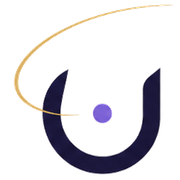
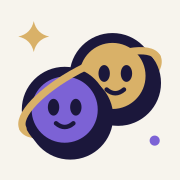
Put the new identity in the header, and a door to the shop
The approved 2026 identity: the new logo mark, the favicon set derived
from it, and the page on plain white — the warmth is carried by the
sticker style, thick navy outlines and hard unblurred shadows, which a
tinted room was muddying. The guard that protected the old warm
background is rewritten rather than deleted: what it really defends
against is the retired dark canvas creeping back.

The old app icon is removed. Next serves every icon file it finds, so
leaving it would have kept the previous identity in the tab.

The header now carries how many Matches you have, and it is the way into
the shop. Everything else in the payment line already works; there was
simply nowhere to press. It shows nothing until the number arrives — a
chip reading zero while the balance loads tells a player they cannot
play, which is the worst thing to be wrong about in a header.

Counting Matches needed the Arabic right. The plural helper knew that
one and two take no numeral — "مباراة واحدة", "مباراتان" — but wrote
"واحد" masculine always, and مباراة and بطاقة are feminine. The bug had
never bitten because `arabicCount` had no caller and no test, and this
is its first. Nouns now carry gender, بطاقة is fixed alongside, and the
module has its first test, including the cases the shop prices read in:
"5 مباريات" and "15 مباراة".

Claude-Session: https://claude.ai/code/session_01LBFJ1ze9pkHxiRgZVuvpFW

diff --git a/frontend/src/components/layout/token-chip.tsx b/frontend/src/components/layout/token-chip.tsx
@@ -1,0 +1,69 @@
+"use client";
+
+import Link from "next/link";
+import { useAuth } from "@/components/auth/auth-provider";
+import { useTokenBalance } from "@/features/entitlements/api/token-balance";
+import { ARABIC_NOUNS, arabicCount, arabicNoun } from "@/lib/arabic-plural";
+
+/**
+ * How many Matches you have, and the way to get more.
+ *
+ * It says "مباريات" rather than "توكنز" because that is what one is: the whole
+ * product counts in Matches, and a second word for the same thing would make a
+ * player wonder whether they are two things.
+ *
+ * Nothing is shown until the number is known. A chip that says zero while the
+ * balance is still loading tells a player they cannot play, which is both wrong
+ * and the worst possible thing to be wrong about in the header.
+ */
+export function TokenChip() {
+  const { isAuthenticated } = useAuth();
+  const { data: balance } = useTokenBalance(isAuthenticated);
+
+  if (!isAuthenticated || balance === undefined) return null;
+
+  // One and two carry no numeral in Arabic — "مباراة واحدة", "مباراتان" — so
+  // the design's emphasised digit only exists from three up. Printing "1" next
+  // to a noun that already means one is the tell of a translated interface.
+  const countsWithNumeral = balance >= 3;
+
+  return (
+    <Link
+      href="/shop"
+      aria-label={`عندك ${arabicCount(balance, ARABIC_NOUNS.match)} — افتح المتجر`}
+      className="inline-flex min-h-[2.875rem] items-center gap-2.5 rounded-full border-[3px] border-[hsl(var(--brand-navy))] bg-white px-4 text-[15px] font-bold text-[hsl(var(--brand-navy))] transition-transform duration-150 hover:-translate-y-0.5"
+    >
+      <TokenCoins />
+      <span>
+        عندك{" "}
+        {countsWithNumeral ? (
+          <>
+            <span className="text-[18px] font-extrabold tabular-nums">
+              {balance}
+            </span>{" "}
+            {arabicNoun(balance, ARABIC_NOUNS.match)}
+          </>
+        ) : (
+          arabicCount(balance, ARABIC_NOUNS.match)
+        )}
+      </span>
+    </Link>
+  );
+}
+
+/** Two stacked gold coins, as the identity draws a Match. */
+function TokenCoins() {
+  return (
+    <span aria-hidden="true" className="relative block size-[1.875rem] shrink-0">
+      <span className="absolute right-2 top-[3px] size-6 rounded-full border-2 border-[hsl(var(--brand-navy))] bg-[hsl(var(--brand-gold))]" />
+      <span className="absolute right-0 top-[1px] inline-flex size-6 items-center justify-center rounded-full border-2 border-[hsl(var(--brand-navy))] bg-[hsl(var(--brand-gold))]">
+        <svg viewBox="-10 -10 20 20" className="size-3">
+          <path
+            d="M0 -10 Q1.8 -1.8 10 0 Q1.8 1.8 0 10 Q-1.8 1.8 -10 0 Q-1.8 -1.8 0 -10Z"
+            fill="hsl(var(--brand-navy))"
+          />
+        </svg>
+      </span>
+    </span>
+  );
+}

diff --git a/frontend/src/lib/arabic-plural.ts b/frontend/src/lib/arabic-plural.ts
@@ -26,14 +26,61 @@ export interface ArabicNounForms {
   few: string;
   /** Eleven and above, singular accusative: "عالمًا". */
   many: string;
+  /**
+   * The noun's gender, which "واحد" has to agree with.
+   *
+   * Arabic has no neuter to fall back on, so this cannot be defaulted: a
+   * feminine noun given the masculine "واحد" reads as broken Arabic, and that
+   * is precisely the tell of a translated interface this module exists to
+   * avoid.
+   */
+  gender: "masculine" | "feminine";
 }
 
 export const ARABIC_NOUNS = {
-  world: { one: "عالم", two: "عالمان", few: "عوالم", many: "عالمًا" },
-  scope: { one: "نطاق", two: "نطاقان", few: "نطاقات", many: "نطاقًا" },
-  challenge: { one: "تحدٍّ", two: "تحدّيان", few: "تحدّيات", many: "تحدّيًا" },
-  player: { one: "لاعب", two: "لاعبان", few: "لاعبين", many: "لاعبًا" },
-  card: { one: "بطاقة", two: "بطاقتان", few: "بطاقات", many: "بطاقة" },
+  world: {
+    one: "عالم",
+    two: "عالمان",
+    few: "عوالم",
+    many: "عالمًا",
+    gender: "masculine",
+  },
+  scope: {
+    one: "نطاق",
+    two: "نطاقان",
+    few: "نطاقات",
+    many: "نطاقًا",
+    gender: "masculine",
+  },
+  challenge: {
+    one: "تحدٍّ",
+    two: "تحدّيان",
+    few: "تحدّيات",
+    many: "تحدّيًا",
+    gender: "masculine",
+  },
+  player: {
+    one: "لاعب",
+    two: "لاعبان",
+    few: "لاعبين",
+    many: "لاعبًا",
+    gender: "masculine",
+  },
+  card: {
+    one: "بطاقة",
+    two: "بطاقتان",
+    few: "بطاقات",
+    many: "بطاقة",
+    gender: "feminine",
+  },
+  /** A playable Match — what a token buys, and what the shop counts in. */
+  match: {
+    one: "مباراة",
+    two: "مباراتان",
+    few: "مباريات",
+    many: "مباراة",
+    gender: "feminine",
+  },
 } as const satisfies Record<string, ArabicNounForms>;
 
 /** The noun alone, in the form the count requires. */
@@ -51,7 +98,8 @@ export function arabicNoun(count: number, forms: ArabicNounForms): string {
  * and printing the digit as well is the tell of a translated interface.
  */
 export function arabicCount(count: number, forms: ArabicNounForms): string {
-  if (count === 1) return `${forms.one} واحد`;
+  if (count === 1)
+    return `${forms.one} ${forms.gender === "feminine" ? "واحدة" : "واحد"}`;
   if (count === 2) return forms.two;
   return `${count} ${arabicNoun(count, forms)}`;
 }

diff --git a/frontend/src/test/design-tokens.test.ts b/frontend/src/test/design-tokens.test.ts
@@ -101,7 +101,9 @@ describe("the canonical Akwaan brand asset", () => {
       "src/features/live-game-session/components/player-join-page.tsx",
     ]) {
       const source = read(path);
-      expect(source).toContain('/brand/akwaan-logo.png');
+      // The 2026 identity's header mark. The guard's real job is that the
+      // Lammah logo never comes back; the path it allows moves with the brand.
+      expect(source).toMatch(/\/brand\/(logo-header\.svg|akwaan-logo\.png)/);
       expect(source).not.toContain('/brand/lammah-logo.png');
     }
   });
@@ -118,8 +120,8 @@ describe("the retired identity stays retired", () => {
 
   it("exposes the approved Akwaan palette without changing team semantics", () => {
     const css = read("src/app/globals.css");
-    expect(css).toContain("--brand-navy: 239 40% 17%");
-    expect(css).toContain("--brand-purple: 247 100% 71%");
+    expect(css).toContain("--brand-navy: 247 44% 16%");
+    expect(css).toContain("--brand-purple: 254 58% 61%");
     expect(css).toContain("--brand-cyan: 188 49% 54%");
     expect(css).toContain("--brand-gold: 40 57% 63%");
   });
@@ -134,17 +136,18 @@ describe("the retired identity stays retired", () => {
     }
   });
 
-  it("keeps the app background warm rather than pure white", () => {
+  it("keeps the app background plain white", () => {
+    // The warm off-white this used to guard was the pre-2026 room. The approved
+    // identity puts the page on plain white and lets the sticker style — thick
+    // navy outlines, hard unblurred shadows — do the separating. The guard is
+    // kept rather than dropped because the thing it really defends against is
+    // the retired dark canvas creeping back, which a loose background invites.
     const css = read("src/app/globals.css");
     const background = css.match(/--background:\s*(\d+)\s+(\d+)%\s+(\d+)%/);
     expect(background).not.toBeNull();
-    const [, hue, saturation, lightness] = background!.map(Number);
-    // A warm hue with real saturation, just below white.
-    expect(hue).toBeGreaterThanOrEqual(20);
-    expect(hue).toBeLessThanOrEqual(60);
-    expect(saturation).toBeGreaterThan(10);
-    expect(lightness).toBeGreaterThanOrEqual(92);
-    expect(lightness).toBeLessThan(100);
+    const [, , saturation, lightness] = background!.map(Number);
+    expect(saturation).toBe(0);
+    expect(lightness).toBe(100);
   });
 
   it("tints team surfaces from the team's own base rather than a fourth hue", () => {

diff --git a/frontend/src/lib/arabic-plural.test.ts b/frontend/src/lib/arabic-plural.test.ts
@@ -1,0 +1,52 @@
+import { describe, expect, it } from "vitest";
+import { ARABIC_NOUNS, arabicCount, arabicNoun } from "./arabic-plural";
+
+/**
+ * Arabic counting, which is not pluralisation with an extra case.
+ *
+ * The module had no test and `arabicCount` had no caller, so its one
+ * hard-coded "واحد" had never met a feminine noun. The shop counts in
+ * مباراة — feminine — so it does now.
+ */
+describe("the noun alone", () => {
+  it.each([
+    [1, "عالم"],
+    [2, "عالمان"],
+    [3, "عوالم"],
+    [10, "عوالم"],
+    [11, "عالمًا"],
+    [100, "عالمًا"],
+  ])("gives %i the right form", (count, expected) => {
+    expect(arabicNoun(count, ARABIC_NOUNS.world)).toBe(expected);
+  });
+});
+
+describe("the whole phrase", () => {
+  it("agrees with a masculine noun", () => {
+    expect(arabicCount(1, ARABIC_NOUNS.world)).toBe("عالم واحد");
+  });
+
+  it("agrees with a feminine noun", () => {
+    // "مباراة واحد" is the tell of an interface translated rather than written.
+    expect(arabicCount(1, ARABIC_NOUNS.match)).toBe("مباراة واحدة");
+    expect(arabicCount(1, ARABIC_NOUNS.card)).toBe("بطاقة واحدة");
+  });
+
+  it("leaves the numeral off one and two, which already say how many", () => {
+    expect(arabicCount(2, ARABIC_NOUNS.match)).toBe("مباراتان");
+    expect(arabicCount(1, ARABIC_NOUNS.match)).not.toMatch(/\d/);
+  });
+
+  it("counts the way the shop prices do", () => {
+    // The packs read "5 مباريات" and "15 مباراة" — three to ten take the
+    // plural, eleven and above take the singular.
+    expect(arabicCount(5, ARABIC_NOUNS.match)).toBe("5 مباريات");
+    expect(arabicCount(15, ARABIC_NOUNS.match)).toBe("15 مباراة");
+  });
+
+  it("gives every noun a gender, since one has to agree with it", () => {
+    for (const forms of Object.values(ARABIC_NOUNS)) {
+      expect(["masculine", "feminine"]).toContain(forms.gender);
+    }
+  });
+});

diff --git a/frontend/src/components/layout/header.tsx b/frontend/src/components/layout/header.tsx
@@ -8,6 +8,7 @@ import { Menu, X } from "lucide-react";
 import { cn } from "@/lib/utils";
 import { Button } from "@/components/ui/button";
 import { useAuth } from "@/components/auth/auth-provider";
+import { TokenChip } from "@/components/layout/token-chip";
 import {
   adminNavigation,
   isAdminNavigationActive,
@@ -246,7 +247,7 @@ function SiteHeader({ merged }: { merged: boolean }) {
             aria-label="أكوان - الرئيسية"
           >
             <Image
-              src="/brand/akwaan-logo.png"
+              src="/brand/logo-header.svg"
               alt="أكوان"
               fill
               priority
@@ -263,6 +264,12 @@ function SiteHeader({ merged }: { merged: boolean }) {
         )}
 
         <div className="flex min-w-28 shrink-0 items-center justify-end gap-1.5 sm:min-w-36 sm:gap-3">
+          {/* Matches left, and the door to buying more. Hidden on the narrowest
+              screens, where the burger and the sign-in action already fill the
+              row and a third chip would push the logo off. */}
+          <span className="hidden sm:inline-flex">
+            <TokenChip />
+          </span>
           {showNav && (
             <button
               type="button"

diff --git a/frontend/src/app/globals.css b/frontend/src/app/globals.css
@@ -133,16 +133,18 @@
 @layer base {
   :root {
     /* ── Brand identity ────────────────────────────────────────────────── */
-    --brand-navy: 239 40% 17%;
-    --brand-purple: 247 100% 71%;
+    --brand-navy: 247 44% 16%;
+    --brand-purple: 254 58% 61%;
     --brand-cyan: 188 49% 54%;
     /* Reserved: timer, system chrome, brand. Never a team colour, and no team
        colour may sit within 40° of it. */
     --brand-gold: 40 57% 63%;
 
     /* ── Surfaces ───────────────────────────────────────────────────────── */
-    /* Warm off-white: the room the whole product sits in. */
-    --background: 43 38% 95%;
+    /* The room the whole product sits in. Plain white since the 2026 identity:
+       the warmth is carried by the sticker style — thick navy outlines and hard
+       unblurred shadows — and a tinted room muddied them. */
+    --background: 0 0% 100%;
     --foreground: var(--brand-navy);
     /* Elevated: cards, panels, anything that lifts off the room. */
     --card: 40 45% 99%;

diff --git a/frontend/src/features/entitlements/api/token-balance.ts b/frontend/src/features/entitlements/api/token-balance.ts
@@ -1,0 +1,31 @@
+import { useQuery } from "@tanstack/react-query";
+import apiClient from "@/lib/api/client";
+
+/**
+ * How many Matches the signed-in player has left.
+ *
+ * The ledger answers with a bare `{ balance }` rather than the wrapped shape
+ * the content endpoints use, so this does not go through `unwrap`.
+ */
+export const fetchTokenBalance = async (): Promise<number> => {
+  const response = await apiClient.get<{ balance: number }>("/tokens/me");
+  return response.data.balance;
+};
+
+export const tokenBalanceQueryKey = ["tokens", "me"] as const;
+
+/**
+ * The balance, for any screen that shows it.
+ *
+ * Only asked for when somebody is signed in: a guest has no ledger, and asking
+ * would spend a 401 on every page view. Kept briefly fresh because the number
+ * changes from outside the browser — a Match consumes one, a purchase adds
+ * some — so a tab left open should not keep showing yesterday's figure.
+ */
+export const useTokenBalance = (enabled: boolean) =>
+  useQuery({
+    queryKey: tokenBalanceQueryKey,
+    queryFn: fetchTokenBalance,
+    enabled,
+    staleTime: 30_000,
+  });
